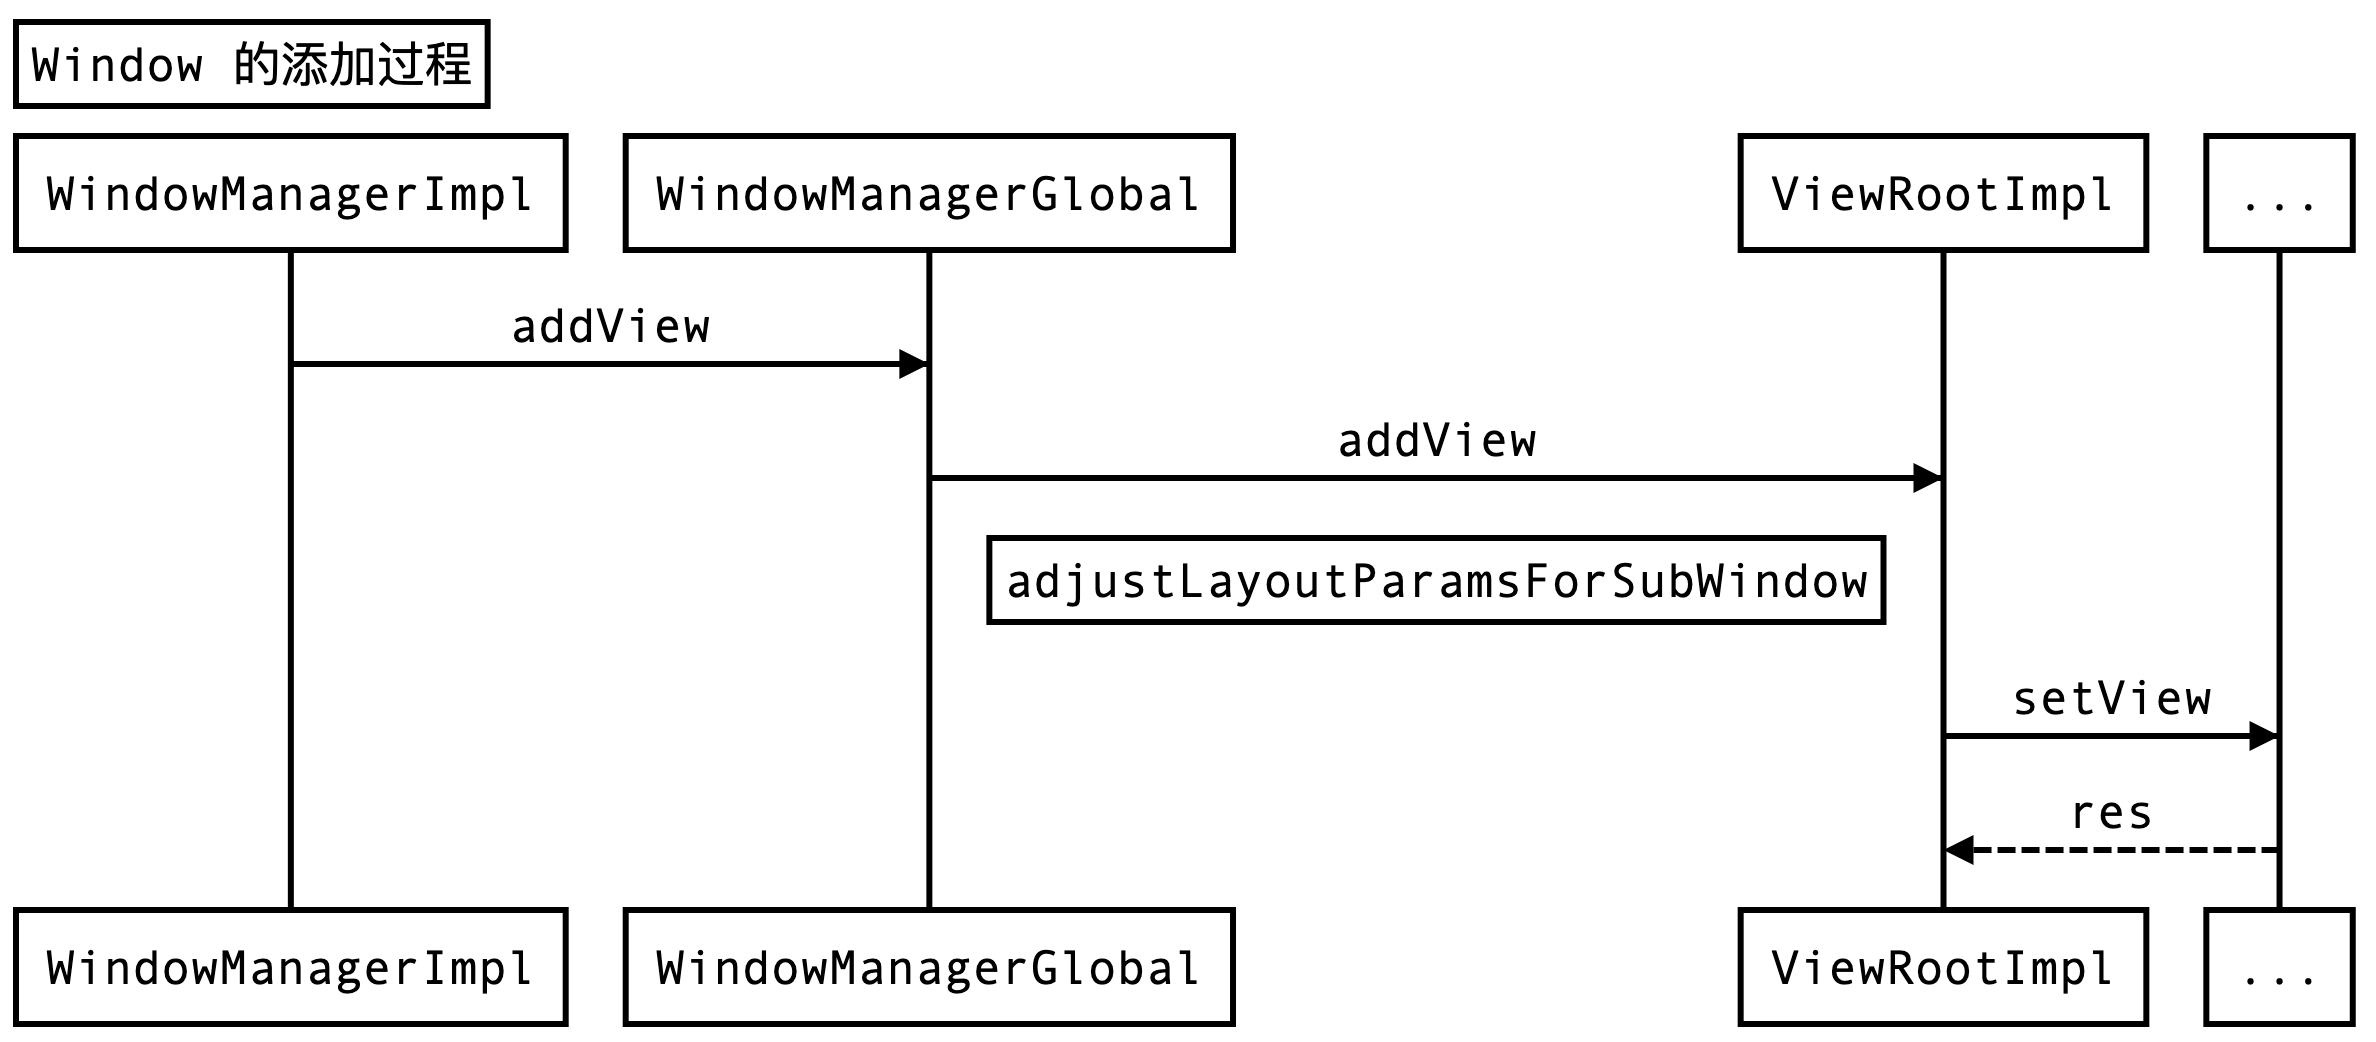
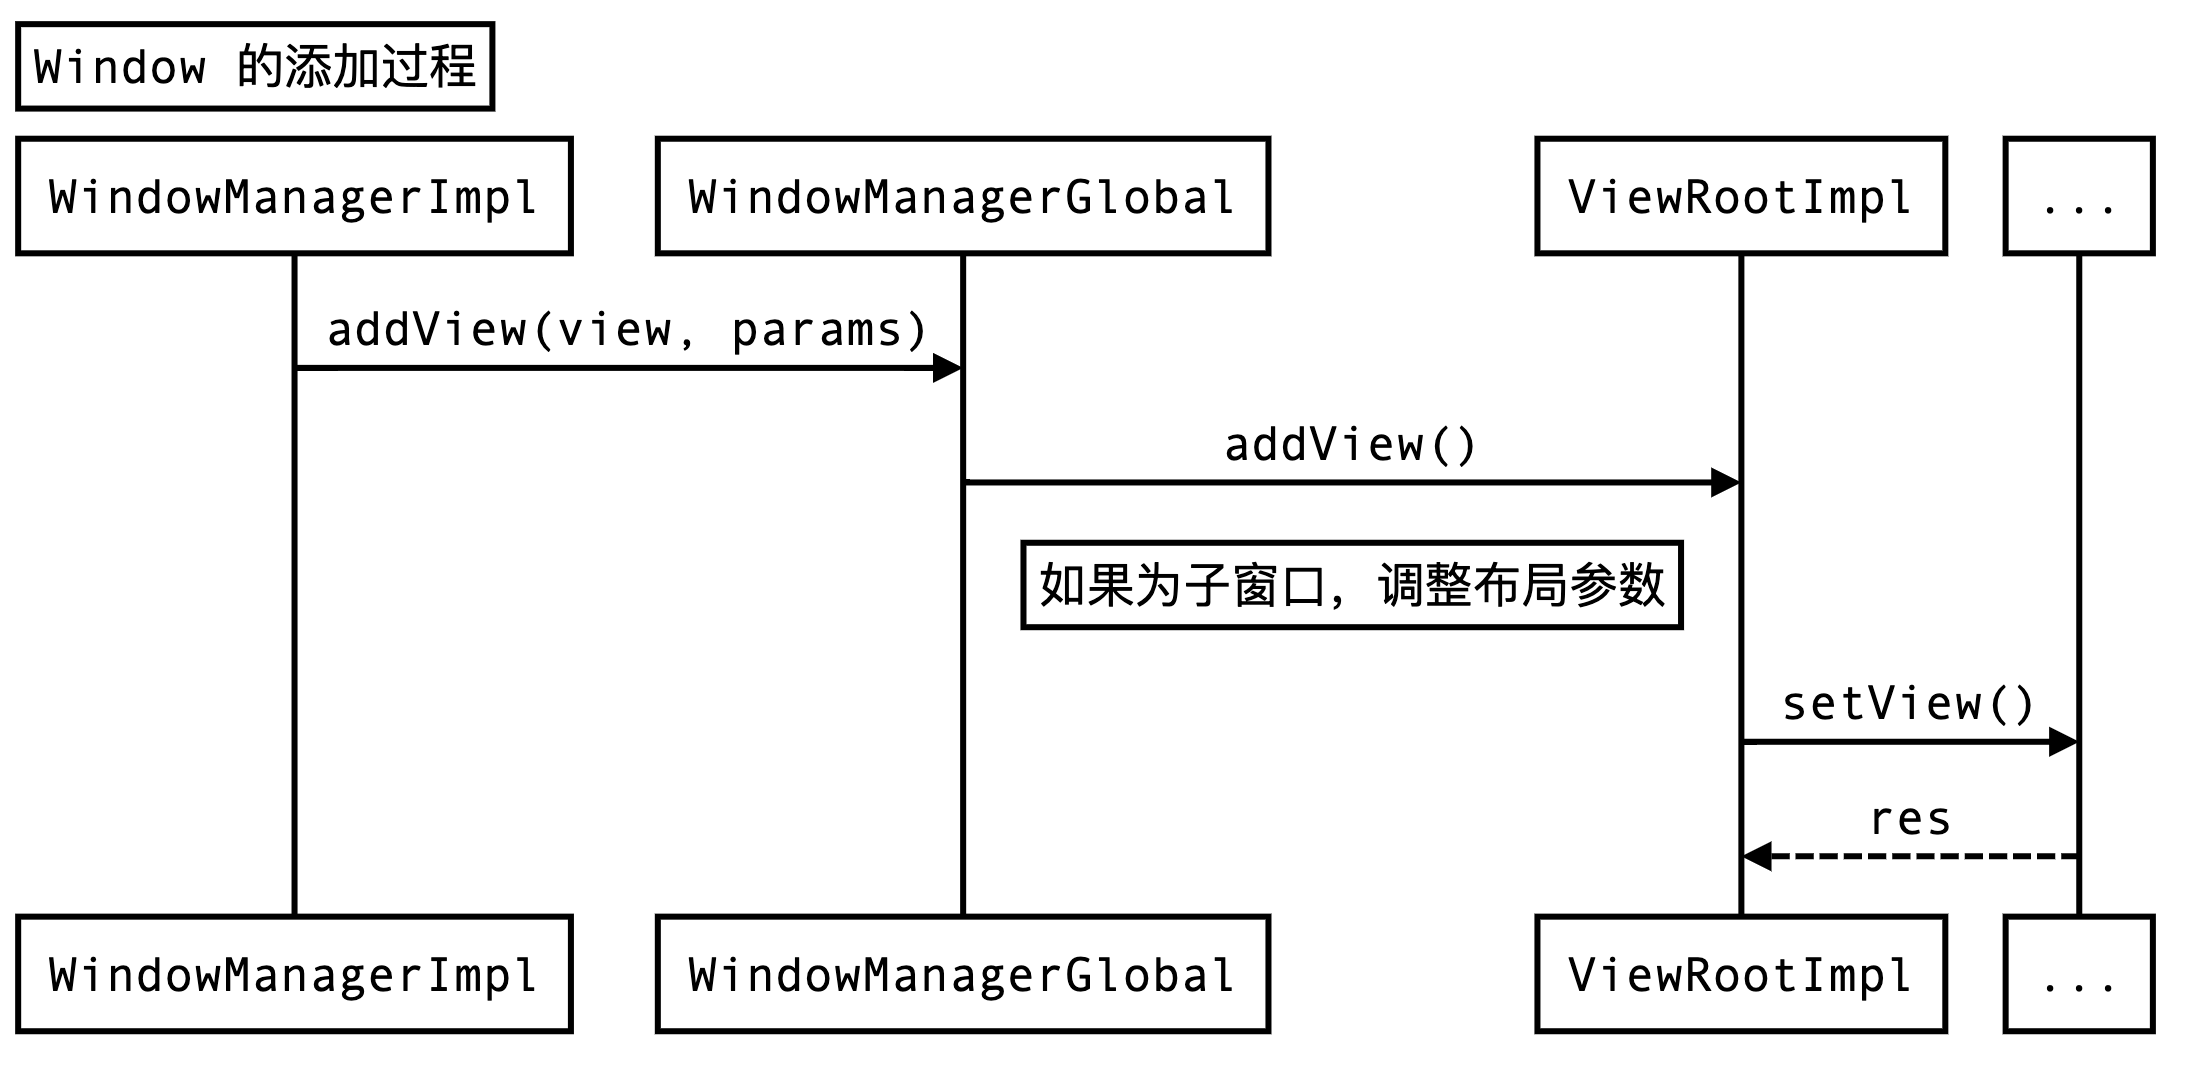
Update images.

Changed region(s): [[0.0, 0.0, 0.9945, 1.0]]

diff --git a/_posts/view/2020-12-17-Input 系统对触摸事件的接收原理.md b/_posts/view/2020-12-17-Input 系统对触摸事件的接收原理.md
@@ -37,6 +37,17 @@ Android 的输入系统服务类为 **InputManagerService**，其在启动时会
 整体关系如下：
 ![](/img/post-view-input2.png)
 
+<!-- Title: InputManagerService 的启动
+participant InputManagerService
+participant InputManager\n(native)
+participant InputDispatcher\n(native)
+participant InputReader\n(native)
+InputManagerService->InputManagerService: start()
+InputManagerService->InputManager\n(native): nativeStart()
+InputManager\n(native)->InputReader\n(native): start()
+InputDispatcher\n(native)->InputDispatcher\n(native): start()
+InputReader\n(native)->InputReader\n(native): start() -->
+
 `InputManagerService` 服务启动整体流程的时序图如下：
 ![](/img/post-view-input1.png)
 ```white
@@ -72,6 +83,18 @@ status_t InputReader::start() {
 `loopOnce()` 为每次循环执行的方法，其内会通过 **EventHub** 类来扫描设备的输入事件（`/dev/input` 目录下），整理调用流程如下：
 ![](/img/post-view-input3.png)
 
+<!-- Title: 通过 EventHub 扫描设备的输入事件 
+participant InputReader\n(native)
+participant EventHub\n(native)
+
+Note right of InputReader\n(native): 循环执行
+InputReader\n(native)->EventHub\n(native): loopOnce()
+EventHub\n(native)->EventHub\n(native): getEvents()
+EventHub\n(native)->EventHub\n(native): scanDevicesLocked()
+EventHub\n(native)->EventHub\n(native): scanDirLocked("/dev/input")
+InputReader\n(native)->InputReader\n(native): processEventsLocked\n(RawEvent* rawEvents)
+InputReader\n(native)->InputReader\n(native): processEventsForDeviceLocked\n(rawEvent) -->
+
 ```white
 frameworks/native/services/inputflinger/reader/
     - EventHub.h
@@ -91,6 +114,21 @@ frameworks/native/services/inputflinger/reader/
 
 对于触摸事件而言，由 **TouchInputMappper**(Multi or Single) 作处理，并传递到 **InputDispatcher** 中，整体流程如下：
 ![](/img/post-view-input4.png)
+
+<!-- Title: InputMapper 作事件进一步处理、传递 
+participant InputReader\n(native)
+participant TouchInputMapper\n(native)
+participant QueuedInputListener\n(native)
+participant InputDispatcher\n(native)
+
+InputReader\n(native)->TouchInputMapper\n(native): processEventsForDeviceLocked\n(rawEvent)
+TouchInputMapper\n(native)->TouchInputMapper\n(native): process(rawEvent)\n...
+TouchInputMapper\n(native)->QueuedInputListener\n(native): dispatchMotion()
+QueuedInputListener\n(native)->QueuedInputListener\n(native): notifyMotion\n(NotifyMotionArgs* args)
+QueuedInputListener\n(native)->QueuedInputListener\n(native): flush()
+QueuedInputListener\n(native)->InputDispatcher\n(native): args->notify(args)
+InputDispatcher\n(native)-InputDispatcher\n(native): notifyMotion(args)
+InputDispatcher\n(native)-InputDispatcher\n(native): enqueueInboundEventLocked\n(EventEntry* entry) -->
 
 ```white
 frameworks/native/services/inputflinger/reader/mapper/
@@ -123,6 +161,14 @@ status_t InputDispatcher::start() {
 
 ![](/img/post-view-input5.png)
 
+<!-- Title: InputDispatcher 分发事件至目标窗口
+participant InputDispatcher\n(native)
+InputDispatcher\n(native)->InputDispatcher\n(native): dispatchOnce()
+InputDispatcher\n(native)->InputDispatcher\n(native): dispatchOnceInnerLocked()
+InputDispatcher\n(native)->InputDispatcher\n(native): dispatchMotionLocked(MotoinEntry* entry)
+Note right of InputDispatcher\n(native): 查找可接受目标事件的窗口\nfindTouchedWindowTargetsLocked(entry)
+InputDispatcher\n(native)->InputDispatcher\n(native): dispatchEventLocked(entry, vector<InputTarget> inputTargets) -->
+
 ```white
 frameworks/native/include/input/
     - InputWindow.h
@@ -135,6 +181,20 @@ frameworks/native/include/input/
 对 Android 系统而言，各类型的窗口统一通过系统服务 **WindowManagerService** 来管理增删改等操作的。以窗口新增为例，每当有新的窗口添加时，以 `addWindow()` 为出发点，会逐步通知到 **InputDispatcher** 更新窗口的信息，整体流程如下：
 
 ![](/img/post-view-input6.png)
+
+<!-- Title: 更新窗口信息至 InputDispatcher
+participant WindowManagerService
+participant InputMonitor
+participant ...
+participant SurfaceFlinger\n(native)
+participant InputManager\n(native)
+participant InputDispatcher\n(native)
+WindowManagerService->InputMonitor: addWindow()
+InputMonitor->...: updateInputWindows()
+...->SurfaceFlinger\n(native): ...
+SurfaceFlinger\n(native)->InputManager\n(native): updateInputWindowInfo()
+InputManager\n(native)->InputDispatcher\n(native): setInputWindows\n(vector<InputWindowInfo> infos)
+InputDispatcher\n(native)->InputDispatcher\n(native): setInputWindows\n(vector<InputWindowHandle> handles) -->
 
 ```white
 frameworks/base/services/core/java/com/android/server/wm/
@@ -209,6 +269,22 @@ public void setView(View view, WindowManager.LayoutParams attrs, View panelParen
 
 ![](/img/post-view-input7.png)
 
+<!-- Title: InputChannel 的创建
+participant ViewRootImpl
+participant WindowManagerService
+participant WindowState
+participant InputChannel
+participant InputChannel\n(native)
+
+ViewRootImpl-\->WindowManagerService: setView\n(InputChannel inputChannel)
+Note right of ViewRootImpl: <- 应用进程 ｜ 系统服务进程 ->
+WindowManagerService->WindowState: addWindow\n(outInputChannel)
+WindowState->InputChannel: openInputChannel\n(outInputChannel)
+InputChannel->InputChannel\n(native): openInputChannelPair()
+InputChannel\n(native)->InputChannel\n(native): openInputChannelPair()
+InputChannel\n(native)-\->WindowState: {serverChannel, clientChannel}
+Note right of WindowState: clientChannel.transferTo(outInputChannel) -->
+
 ```white
 frameworks/base/core/java/android/view/
     - ViewRootImpl.java
@@ -266,6 +342,18 @@ status_t InputChannel::openInputChannelPair(const std::string& name,
 
 ![](/img/post-view-input8.png)
 
+<!-- Title: server 端 InputChannel 的注册
+participant WindowState
+participant InputManagerService
+participant InputManager\n(native)
+participant InputDispatcher\n(native)
+
+WindowState-\->InputManagerService: {serverChannel}
+InputManagerService->InputManager\n(native): registerInputChannel\n(serverChannel)
+InputManager\n(native)->InputDispatcher\n(native): registerInputChannel\n(channel)
+InputDispatcher\n(native)->InputDispatcher\n(native): registerInputChannel(channel)
+InputDispatcher\n(native)->InputDispatcher\n(native): Looper::addFd(channel->getFd()) -->
+
 具体看 **InputDispatcher** 的 `registerInputChannel()` 方法实现：
 ```cpp
 status_t InputDispatcher::registerInputChannel(const sp<InputChannel>& inputChannel) {
@@ -295,6 +383,19 @@ status_t InputDispatcher::registerInputChannel(const sp<InputChannel>& inputChan
 
 ![](/img/post-view-input9.png)
 
+<!-- Title: client 端 Input 事件接受的初始化
+participant ViewRootImpl
+participant WindowInputEventReceiver
+participant NativeInputEventReceiver\n(native)
+
+ViewRootImpl->WindowInputEventReceiver: setView()
+WindowInputEventReceiver->WindowInputEventReceiver: <init>(inputChannel, looper)
+WindowInputEventReceiver->NativeInputEventReceiver\n(native): nativeInit(inputChannel, messageQueue)
+NativeInputEventReceiver\n(native)->NativeInputEventReceiver\n(native): <init>
+NativeInputEventReceiver\n(native)->NativeInputEventReceiver\n(native): initialize()
+NativeInputEventReceiver\n(native)->NativeInputEventReceiver\n(native): setFdEvents()
+NativeInputEventReceiver\n(native)->NativeInputEventReceiver\n(native): Looper::addFd(channel->getFd()) -->
+
 ```light
 frameworks/base/core/java/android/view/
     - InputEventReceiver.java
@@ -312,13 +413,64 @@ frameworks/base/core/jni/
 
 ![](/img/post-view-input11.png)
 
+<!-- Title: InputDispatcher 分发事件
+participant InputDispatcher\n(native)
+participant InputPublisher\n(native)
+participant InputChannel\n(native)
+
+InputDispatcher\n(native)->InputDispatcher\n(native): dispatchEventLocked\n(EventEntry* eventEntry)
+InputDispatcher\n(native)->InputDispatcher\n(native): prepareDispatchCycleLocked()
+InputDispatcher\n(native)->InputDispatcher\n(native): enqueueDispatchEntriesLocked()
+InputDispatcher\n(native)->InputPublisher\n(native): startDispatchCycleLocked()
+InputPublisher\n(native)->InputChannel\n(native):publishMotionEvent()
+InputChannel\n(native)->InputChannel\n(native): sendMessage\n(InputMessage* msg)
+InputChannel\n(native)->InputChannel\n(native): socket::send() -->
+
 在应用进程主线程处，**NativeInputEventReceiver** 会接受到信息的到来，并回调 `handleEvent()` 方法开始接手事件的处理，并逐步分发至窗口根视图 RootView 上：
 
 ![](/img/post-view-input13.png)
 
+<!-- Title: RootView 对触摸事件的接收
+participant NativeInputEventReceiver\n(native)
+participant WindowInputEventReceiver
+participant ViewRootImpl
+participant RootView
+
+NativeInputEventReceiver\n(native)->NativeInputEventReceiver\n(native): handleEvent()
+NativeInputEventReceiver\n(native)->WindowInputEventReceiver: consumeEvents()
+WindowInputEventReceiver->WindowInputEventReceiver: onInputEvent\n(InputEvent event)
+WindowInputEventReceiver->ViewRootImpl: enqueueInputEvent(event)
+ViewRootImpl->ViewRootImpl: doProcessInputEvents()
+ViewRootImpl->ViewRootImpl: deliverInputEvent()
+ViewRootImpl->ViewRootImpl: ...
+ViewRootImpl->RootView: processPointerEvent()
+RootView->RootView: dispatchPointerEvent()
+RootView->RootView: dispatchTouchEvent\n(MotionEvent event) -->
+
 在触摸事件分发完成后，会通过 **InputChannel(client)** 的 socket 发送 `finished` 信号信息回系统服务进程的 InputDispatcher 线程中通知当前输入事件已消费完毕，并开始下一个事件的分发处理：
 
 ![](/img/post-view-input12.png)
+
+<!-- Title: 事件消费回调
+participant ViewRootImpl
+participant WindowInputEventReceiver
+participant NativeInputEventReceiver\n(native)
+participant InputConsumer\n(native)
+participant InputDispatcher\n(native)
+
+ViewRootImpl->ViewRootImpl: deliverInputEvent()
+Note right of ViewRootImpl: 事件分发完成
+ViewRootImpl->WindowInputEventReceiver: finishInputEvent()
+WindowInputEventReceiver->NativeInputEventReceiver\n(native): finishInputEvent()
+NativeInputEventReceiver\n(native)->InputConsumer\n(native): finishInputEvent()
+InputConsumer\n(native)->InputConsumer\n(native): sendFinishedSignal()
+InputConsumer\n(native)->InputConsumer\n(native): sendUnchainedFinishedSignal()
+InputConsumer\n(native)-\->InputDispatcher\n(native):mChannel->sendMessage()
+Note right of InputConsumer\n(native): <- 应用进程 ｜ 系统服务进程 ->
+InputDispatcher\n(native)->InputDispatcher\n(native): handleReceiveCallback()
+InputDispatcher\n(native)->InputDispatcher\n(native): finishDispatchCycleLocked()\n...
+Note right of InputDispatcher\n(native): 启动下一个事件处理循环
+InputDispatcher\n(native)->InputDispatcher\n(native): startDispatchCycleLocked() -->
 
 可见，一个触摸事件分发的完整过程共有两次 socket 通信：
 - 系统服务 InputDispatcher 线程 -> 应用主线程：发送新触摸事件信息

diff --git a/_posts/view/2020-11-11-Window 添加过程.md b/_posts/view/2020-11-11-Window 添加过程.md
@@ -52,6 +52,19 @@ final class SystemServiceRegistry {
 下面进一步分析 WindowMangerImpl 内 Window 的添加过程，整体流程时序图示意如下：
 
 ![](/img/post-window_add1.png)
+
+<!-- Title: Window 的添加过程
+participant WindowManagerImpl
+participant WindowManagerGlobal
+participant ViewRootImpl
+participant ...
+
+WindowManagerImpl->WindowManagerGlobal: addView(view, params)
+WindowManagerGlobal->ViewRootImpl: addView()
+Note right of WindowManagerGlobal: 如果为子窗口，调整布局参数
+ViewRootImpl->...: setView()
+...-\->ViewRootImpl: res -->
+
 ```light
 frameworks/base/core/java/android/view
     - ViewRootImpl
@@ -60,11 +73,11 @@ frameworks/base/core/java/android/view
     - WindowManagerGlobal.java
 ```
 
-**WindowMangerImpl** 在应用进程中是允许创建多个的，实际上每个 Activity 窗口就会新建一个 WindowMangerImpl 对象，与其上下文环境相关。
+- **WindowMangerImpl** 在应用进程中是允许创建多个的，实际上每个 Activity 窗口就会新建一个 WindowMangerImpl 对象，与其上下文环境相关。
 
-而 **WindowManagerGlobal** 和 WindowMangerImpl 都实现了 `WindowManager` 接口。WindowManagerGlobal 为单例实现，其目的是提供不依赖上下文环境的窗口管理实现。
+- **WindowManagerGlobal** 和 WindowMangerImpl 都实现了 `WindowManager` 接口。WindowManagerGlobal 为单例实现，其目的是提供不依赖上下文环境的窗口管理实现。
 
-WindowManagerGlobal 的 `addView` 方法具体实现如下：
+WindowManagerGlobal 的 `addView()` 方法具体实现如下：
 ```java
 public final class WindowManagerGlobal {
     ...
@@ -105,7 +118,7 @@ public final class WindowManagerGlobal {
 }
 ```
 
-其中，WindowManagerGlobal 的 `addView` 方法完成了以下几个核心工作：
+此方法完成了以下几个核心工作：
 
 - 根据父窗口来调整子窗口的参数，其最核心是获取父窗口的 `token` 为子窗口使用；
    
@@ -123,6 +136,24 @@ public final class WindowManagerGlobal {
 而后，在 ViewRootImpl 内，发起 IPC 调用，把窗口相关参数传递到系统服务 **WindowMangerService** 中，完成窗口添加的流程，时序图示意如下：
 
 ![](/img/post-window_add2.png)
+
+<!-- Title: Window 的添加过程
+participant ViewRootImpl
+participant IWindowSession$BinderProxy
+participant Session
+participant WindowManagerService
+
+ViewRootImpl->IWindowSession$BinderProxy: setView()
+IWindowSession$BinderProxy->>Session: addToDisplayAsUser()
+Note right of IWindowSession$BinderProxy: <- 应用进程 ｜ 系统服务进程 ->
+Session->WindowManagerService: addToDisplayAsUser()
+WindowManagerService->WindowManagerService: addWindow()
+Note right of WindowManagerService: 验证窗口参数的合法性
+WindowManagerService-\->Session: res
+Session-\->>IWindowSession$BinderProxy: res
+IWindowSession$BinderProxy->ViewRootImpl:res
+Note right of ViewRootImpl: 添加窗口成功或失败抛出异常 -->
+
 ```light
 frameworks/base/core/java/android/view
     - ViewRootImpl
@@ -185,10 +216,6 @@ public class WindowManagerService extends IWindowManager.Stub {
 ## 总结
 
 窗口添加整体流程图如下：
-
-![](/img/post-window_add4.png)
-
-整体时序图如下：
 
 ![](/img/post-window_add3.png)
 

diff --git a/_posts/view/2020-11-25-View 的测量过程.md b/_posts/view/2020-11-25-View 的测量过程.md
@@ -27,7 +27,24 @@ View 的测量（`measure`）过程负责计算 View 的尺寸，布局（`layou
 ## View 的测量
 先执行的是 View 的测量过程，整体流程时序图如下：
 
-![](/img/post-view-measure.svg)
+![](/img/post-view-measure.png)
+
+<!-- Title: View 的测量过程
+participant ViewRootImpl
+participant RootView
+participant ChildView
+participant ...
+
+ViewRootImpl->ViewRootImpl: doTraversal()
+ViewRootImpl->ViewRootImpl: performTraversals()
+
+ViewRootImpl->RootView: performMeasure\n(MeasureSpec wm, MeasureSpec hm)
+RootView->RootView: measure(wm, hm)
+RootView->ChildView: onMeasure(wm, hm)
+ChildView->ChildView: measure(wm, hm)
+ChildView->...: onMeasure(wm, hm)
+ChildView-\->RootView: w, h
+RootView->RootView: setMeasuredDimension(w, h) -->
 
 ```light
 frameworks/base/core/java/android/view
@@ -225,7 +242,21 @@ public final void measure(int widthMeasureSpec, int heightMeasureSpec) {
 ## View 的布局
 在 View 树的测量（`measure`）流程完成后，接着触发的是 View 的布局（`layout`）流程。相对于测量，布局的过程相对简单，整体时序图如下：
 
-![](/img/post-view-layout.svg)
+![](/img/post-view-layout.png)
+
+<!-- Title: View 的布局过程
+participant ViewRootImpl
+participant RootView
+participant ChildView
+participant ...
+
+ViewRootImpl->RootView: performMeasure()
+RootView->ChildView: ...
+ViewRootImpl->RootView: performLayout()
+RootView->RootView: layout(l,t,r,b)
+RootView->RootView: setFrame(l,t,r,b)
+RootView->ChildView: onLayout(l,t,r,b)
+ChildView->...: layout() / ... -->
 
 布局过程的核心是**计算一个 View 在其父 View 当中的位置**，在 Android View 系统中，是通过一个 View 相对于父 View 的 `left`、`top`、`right`、`bottom` 四个参数值来确定的（分别对应上时序图的 l、t、r、b）。其含义如下图所示：
 
